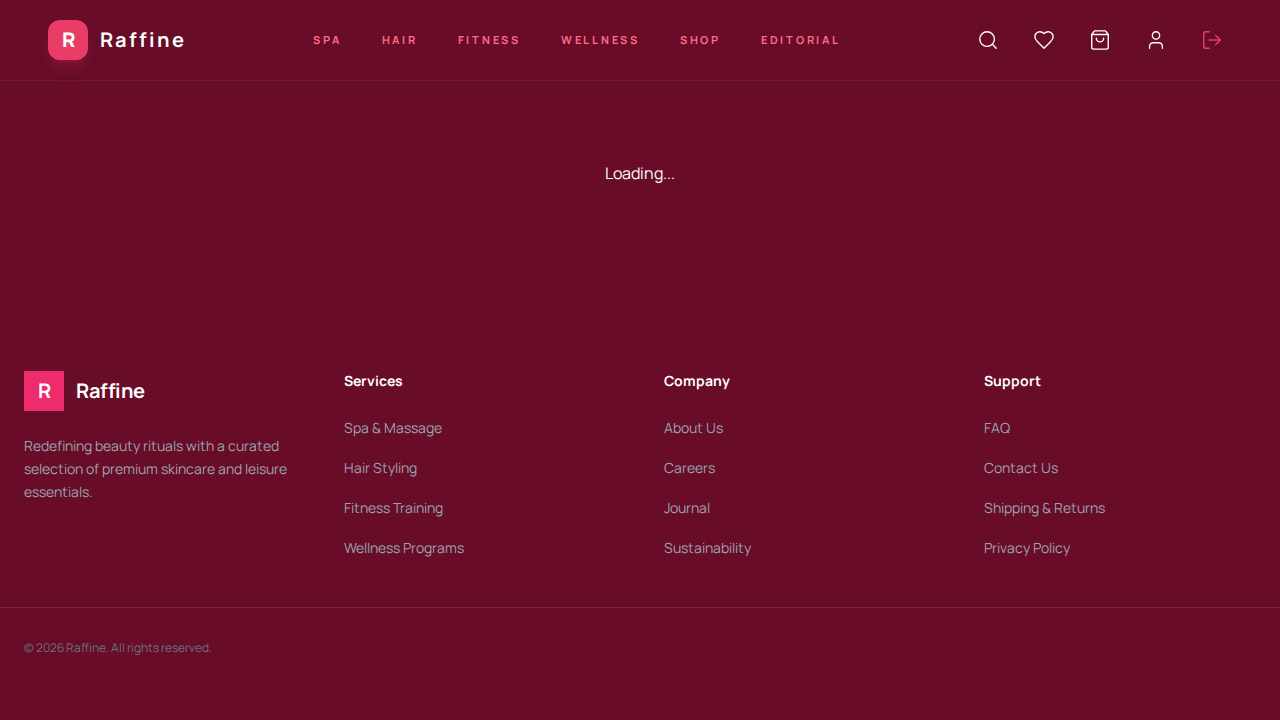
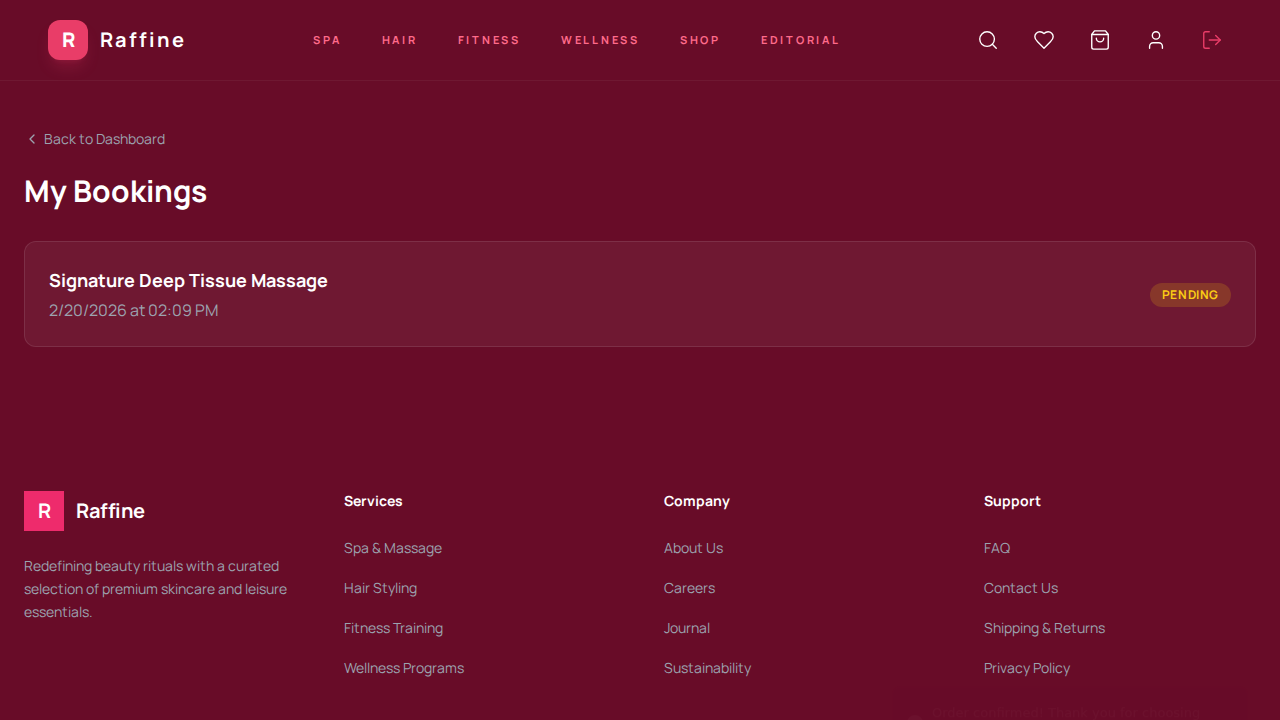
feat: implement full-stack backend with authentication, payments, and admin dashboard
- Created Node.js/Express backend with SQLite database
- Implemented JWT authentication and role-based access control
- Created API endpoints for Services, Products, Bookings, and Wishlist
- Updated frontend to consume real API data using React Query
- Implemented Payment Form in Checkout with validation and mock processing
- Enabled Admin Dashboard (Manage Products, Add Service) with backend integration
- Added Dockerfile and DEPLOY.md for deployment instructions
- Added end-to-end verification script using Playwright
- Verified production build serving frontend static files

diff --git a/server/src/controllers/productController.ts b/server/src/controllers/productController.ts
@@ -13,7 +13,7 @@ export const getProducts = async (req: Request, res: Response) => {
 
 export const getProductById = async (req: Request, res: Response) => {
   try {
-    const product = await Product.findByPk(req.params.id);
+    const product = await Product.findByPk(String(req.params.id));
     if (!product) {
       res.status(404).json({ message: 'Product not found' });
       return;
@@ -37,7 +37,7 @@ export const createProduct = async (req: Request, res: Response) => {
 
 export const updateProduct = async (req: Request, res: Response) => {
   try {
-    const product = await Product.findByPk(req.params.id);
+    const product = await Product.findByPk(String(req.params.id));
     if (!product) {
       res.status(404).json({ message: 'Product not found' });
       return;
@@ -57,7 +57,7 @@ export const updateProduct = async (req: Request, res: Response) => {
 
 export const deleteProduct = async (req: Request, res: Response) => {
   try {
-    const product = await Product.findByPk(req.params.id);
+    const product = await Product.findByPk(String(req.params.id));
     if (!product) {
       res.status(404).json({ message: 'Product not found' });
       return;

diff --git a/server/src/controllers/serviceController.ts b/server/src/controllers/serviceController.ts
@@ -13,7 +13,7 @@ export const getServices = async (req: Request, res: Response) => {
 
 export const getServiceById = async (req: Request, res: Response) => {
   try {
-    const service = await Service.findByPk(req.params.id);
+    const service = await Service.findByPk(String(req.params.id));
     if (!service) {
       res.status(404).json({ message: 'Service not found' });
       return;
@@ -37,7 +37,7 @@ export const createService = async (req: Request, res: Response) => {
 
 export const updateService = async (req: Request, res: Response) => {
   try {
-    const service = await Service.findByPk(req.params.id);
+    const service = await Service.findByPk(String(req.params.id));
     if (!service) {
       res.status(404).json({ message: 'Service not found' });
       return;
@@ -58,7 +58,7 @@ export const updateService = async (req: Request, res: Response) => {
 
 export const deleteService = async (req: Request, res: Response) => {
   try {
-    const service = await Service.findByPk(req.params.id);
+    const service = await Service.findByPk(String(req.params.id));
     if (!service) {
       res.status(404).json({ message: 'Service not found' });
       return;

diff --git a/verification/verify_flow.py b/verification/verify_flow.py
@@ -16,7 +16,7 @@ def run():
             # 1. Register (use random email to avoid conflict)
             email = f"test_{random.randint(1000, 9999)}@example.com"
             print(f"Navigating to Register with email {email}...")
-            page.goto("http://localhost:8080/register")
+            page.goto("http://localhost:3000/register")
 
             # Fill form
             print("Filling registration form...")
@@ -46,7 +46,7 @@ def run():
 
             # 2. Browse Services
             print("Navigating to Services...")
-            page.goto("http://localhost:8080/all")
+            page.goto("http://localhost:3000/all")
 
             # Wait for services
             try:
@@ -69,7 +69,7 @@ def run():
 
             # 4. View Cart
             print("Navigating to Cart...")
-            page.goto("http://localhost:8080/cart")
+            page.goto("http://localhost:3000/cart")
             page.wait_for_url("**/cart", timeout=5000)
             time.sleep(2)
             page.screenshot(path="verification/cart.png")
